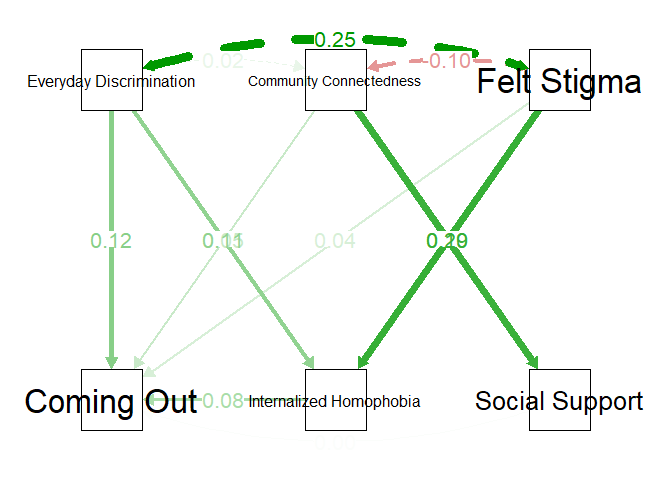
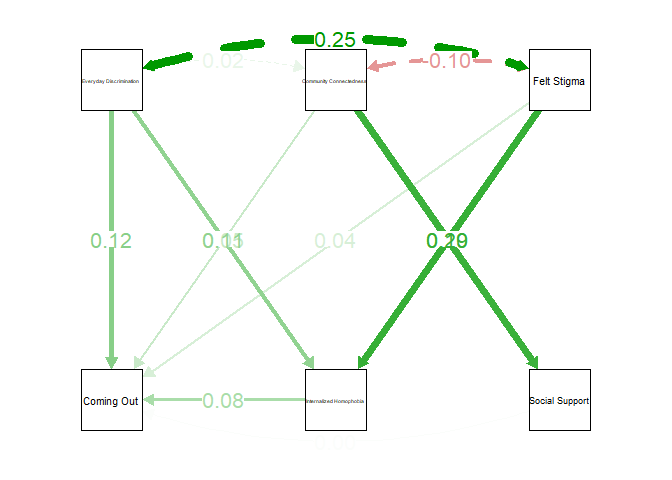
sig

diff --git a/p10/p10.md b/p10/p10.md
@@ -392,7 +392,7 @@ summary(logR_wave3)
 ``` r
 #Not sure if using wave 3 data to predict wave 3 outcome is legit
 
-plot_model(logR_wave1, group.terms = c(1, 2, 2, 1, 2), colors=c("#4DBBD5FF","#E64B35FF"), show.values = TRUE, value.offset = .3, vline.color = "#1B191999", title = "Using Wave 1 Predictors to Predict Coming Out in Wave 2", type ="est", transform = NULL) + theme_classic() + theme(plot.title = element_text(face = "bold", hjust = 0.5)) + scale_x_discrete(labels=c("Felt Stigma", "Internalized Homophobia", "Community Connectedness","Social Support", "Everyday Discrimination"))
+plot_model(logR_wave1, group.terms = c(1, 2, 2, 2, 2), colors=c("#4DBBD5FF","#E64B35FF"), show.values = TRUE, value.offset = .3, vline.color = "#1B191999", title = "Using Wave 1 Predictors to Predict Coming Out in Wave 2", type ="est", transform = NULL) + theme_classic() + theme(plot.title = element_text(face = "bold", hjust = 0.5)) + scale_x_discrete(labels=c("Felt Stigma", "Internalized Homophobia", "Community Connectedness","Social Support", "Everyday Discrimination"))
 ```
 
     ## Scale for x is already present.
@@ -401,7 +401,7 @@ plot_model(logR_wave1, group.terms = c(1, 2, 2, 1, 2), colors=c("#4DBBD5FF","#E6
 ![](p10_files/figure-gfm/unnamed-chunk-2-1.png)<!-- -->
 
 ``` r
-plot_model(logR_wave2, group.terms = c(1, 2, 2, 1, 2), colors=c("#4DBBD5FF","#E64B35FF"), show.values = TRUE, value.offset = .3, vline.color = "#1B191999", title = "Using Wave 2 Predictors to Predict Coming Out in Wave 3", type ="est", transform = NULL) + theme_classic() + theme(plot.title = element_text(face = "bold", hjust = 0.5)) + scale_x_discrete(labels=c("Felt Stigma", "Internalized Homophobia", "Community Connectedness","Social Support", "Everyday Discrimination"))
+plot_model(logR_wave2, group.terms = c(1, 2, 2, 2, 2), colors=c("#4DBBD5FF","#E64B35FF"), show.values = TRUE, value.offset = .3, vline.color = "#1B191999", title = "Using Wave 2 Predictors to Predict Coming Out in Wave 3", type ="est", transform = NULL) + theme_classic() + theme(plot.title = element_text(face = "bold", hjust = 0.5)) + scale_x_discrete(labels=c("Felt Stigma", "Internalized Homophobia", "Community Connectedness","Social Support", "Everyday Discrimination"))
 ```
 
     ## Scale for x is already present.
@@ -515,7 +515,7 @@ summary(fit1, fit.measures=TRUE, standardized=T)
     ##    .W1SOCSUPPORT      1.635    0.082   20.050    0.000    1.635    0.981
 
 ``` r
-semPaths(fit1, "std", layout = "tree", edge.width = 1.5, edge.label.cex = 1.5, node.width=2, residuals=FALSE, nodeLabels = c("Coming Out", "Internalized Homophobia", "Social Support", "Everyday Discrimination", "Community Connectedness", "Felt Stigma"), label.cex =3.6)
+semPaths(fit1, "std", layout = "tree", edge.width = 1.5, edge.label.cex = 1.5, node.width=2, residuals=FALSE, nodeLabels = c("Coming Out", "Internalized Homophobia", "Social Support", "Everyday Discrimination", "Community Connectedness", "Felt Stigma"), label.cex =1.2)
 ```
 
 ![](p10_files/figure-gfm/unnamed-chunk-3-1.png)<!-- -->
@@ -617,7 +617,7 @@ summary(fit2, fit.measures=TRUE, standardized=T)
     ##    .W2SOCSUPPORT      1.424    0.085   16.808    0.000    1.424    0.950
 
 ``` r
-semPaths(fit2, "std", layout = "tree", edge.width = 1.5, edge.label.cex = 1.5, node.width=2, residuals=FALSE, nodeLabels = c("Coming Out", "Internalized Homophobia", "Social Support", "Everyday Discrimination", "Community Connectedness", "Felt Stigma"), label.cex =3.6)
+semPaths(fit2, "std", layout = "tree", edge.width = 1.5, edge.label.cex = 1.5, node.width=2, residuals=FALSE, nodeLabels = c("Coming Out", "Internalized Homophobia", "Social Support", "Everyday Discrimination", "Community Connectedness", "Felt Stigma"), label.cex =1.2)
 ```
 
 ![](p10_files/figure-gfm/unnamed-chunk-4-1.png)<!-- -->
@@ -723,7 +723,7 @@ summary(fit3, fit.measures=TRUE, standardized=T)
     ##    .W3SOCSUPPORT      1.396    0.078   17.972    0.000    1.396    0.963
 
 ``` r
-semPaths(fit3, "std", layout = "tree", edge.width = 1.5, edge.label.cex = 1.5, node.width=2, residuals=FALSE, nodeLabels = c("Coming Out", "Internalized Homophobia", "Social Support", "Everyday Discrimination", "Community Connectedness", "Felt Stigma"), label.cex =3.6)
+semPaths(fit3, "std", layout = "tree", edge.width = 1.5, edge.label.cex = 1.5, node.width=2, residuals=FALSE, nodeLabels = c("Coming Out", "Internalized Homophobia", "Social Support", "Everyday Discrimination", "Community Connectedness", "Felt Stigma"), label.cex =1.2)
 ```
 
 ![](p10_files/figure-gfm/unnamed-chunk-5-1.png)<!-- -->
